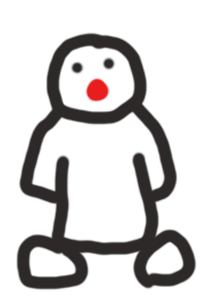
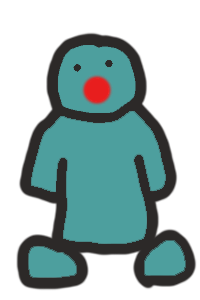
Implement basic fishing

diff --git a/game/players.js b/game/players.js
@@ -3,6 +3,7 @@
 let players = {
     // Textures
     player_texture: null,
+    player_fishing_texture: null,
     //////////////////////////////////////////////////
     players: [],
     id: null,
@@ -10,18 +11,20 @@ let players = {
     init: function() 
     {
         players.player_texture = graphics.loadImage("res/player.png");
+        players.player_fishing_texture = graphics.loadImage("res/player_fish.png");
 
         // Create our player ID
         players.id = Math.floor(Math.random() * 100000);
 
+        // Notify the server that the client has joined the game
         socket.send({
             "command": "create",
             "id": players.id
         });
     },
-    update: function()
+    update: function(map_click_handled)
     {
-        players.handleInput();
+        players.handleInput(map_click_handled);
         // Update player positions
         for (var player in players.players) {
             player = players.players[player];
@@ -56,7 +59,14 @@ let players = {
         for (var player in players.players) 
         {
             player = players.players[player];
-            graphics.drawImage(players.player_texture, player["x"] - 50, player["y"] - 150, 100, 150);
+            if (player["state"] == "fishing")
+            {
+                graphics.drawImage(players.player_fishing_texture, player["x"] - 50, player["y"] - 150, 100, 150);
+            }
+            else
+            {
+                graphics.drawImage(players.player_texture, player["x"] - 50, player["y"] - 150, 100, 150);
+            }
         }
     },
     createPlayer: function(data)
@@ -66,7 +76,8 @@ let players = {
             "x": data["x"],
             "y": data["y"],
             "target_x": data["x"],
-            "target_y": data["y"]
+            "target_y": data["y"],
+            "state": data["state"]
         });
     },
     movePlayer: function(data)
@@ -94,9 +105,9 @@ let players = {
             }
         }
     },
-    handleInput: function()
+    handleInput: function (map_click_handled)
     {
-        if (input.mouse.clicked) 
+        if (input.mouse.clicked && !map_click_handled) 
         {
             // Move here
             var command = {
@@ -107,5 +118,16 @@ let players = {
             };
             socket.send(JSON.stringify(command));
         }
+    },
+    getPlayer: function(id)
+    {
+        for (var player in players.players)
+        {
+            if (players.players[player]["id"] == id)
+            {
+                return players.players[player];
+            }
+        }
+        return null;
     }
 };

diff --git a/game/map.js b/game/map.js
@@ -3,17 +3,51 @@
 let map = {
     // Textures
     background_texture: null,
+    pond_texture: null,
+    pond_highlight_texture: null,
+    //////////////////////////////////////////////////
+    pond_hover: false,
     //////////////////////////////////////////////////
     init: function()
     {
         map.background_texture = graphics.loadImage("res/background.png");
+        map.pond_texture = graphics.loadImage("res/pond.png");
+        map.pond_highlight_texture = graphics.loadImage("res/pond_highlight.png")
     },
     update: function ()
     {
-        // Do nothing for now...
+        // Reset state
+        map.pond_hover = false;
+
+        // Check if mouse hovers over interactable
+        var x = input.mouse.x;
+        var y = input.mouse.y;
+        if (x > 100 && x < 400 && y > 100 && y < 300)
+        {
+            map.pond_hover = true;
+            // Mouse click on the interactable
+            if (input.mouse.clicked === true)
+            {
+                socket.send({
+                    "command": "interact",
+                    "id": players.id,
+                    "action": "fishing"
+                });
+                return true;
+            }
+        }
+        return false;
     },
     draw: function()
     {
         graphics.drawImage(map.background_texture, 0, 0, 640, 480);
+        if (map.pond_hover)
+        {
+            graphics.drawImage(map.pond_highlight_texture, 100, 100, 300, 200);
+        }
+        else
+        {
+            graphics.drawImage(map.pond_texture, 100, 100, 300, 200);
+        }
     }
 };

diff --git a/game/socket.js b/game/socket.js
@@ -74,5 +74,33 @@ let socket = {
         {
             players.removePlayer(message);
         }
+        if (message["command"] == "interact")
+        {
+            if (message["action"] == "fishing")
+            {
+                var player = players.getPlayer(message["id"]);
+                if (player !== null)
+                {
+                    player["state"] = "fishing";
+                }
+            }
+        }
+        if (message["command"] == "fish")
+        {
+            var player = players.getPlayer(message["id"])
+            if (player !== null)
+            {
+                player["state"] = "default";
+            }
+            // If this is us, show the fish
+            if (message["id"] == players.id)
+            {
+                ui.setFish(message["fish"]);
+            }
+        }
+        if (message["debug"])
+        {
+            logger.info(message["debug"]);
+        }
     }
 }

diff --git a/game/ui.js b/game/ui.js
@@ -1,0 +1,31 @@
+"use strict";
+
+// All of this code is temporary for fishing right now
+let ui = {
+    fish: "",
+    init: function() {
+        // Do nothing...
+    },
+    update: function(delta)
+    {
+        if (ui.fish.length > 0)
+        {
+            if (input.mouse.clicked)
+            {
+                logger.warning(ui.fish);
+                ui.fish = "";
+            }
+        }
+    },
+    draw: function()
+    {
+        if (ui.fish.length > 0)
+        {
+            graphics.text.drawText("You caught a " + ui.fish, defaultFont, 100, 200, 16);
+        }
+    },
+    setFish: function(fish)
+    {
+        ui.fish = fish;
+    }
+}

diff --git a/game/main.js b/game/main.js
@@ -7,6 +7,7 @@ let game = {
         map.init();
         socket.init();
         players.init();
+        ui.init();
     },
     close: function () {
         // Clean up any resources here...
@@ -22,13 +23,16 @@ let game = {
         if (input.keyPressed(83) || input.keyPressed(40)) {
             // DOWN
         }
-        players.update();
+        ui.update();
+        var map_click_handled = map.update();
+        players.update(map_click_handled);
         socket.update();
     },
     draw: function () {
         map.draw();
         players.draw();
 
+        ui.draw();
         graphics.text.drawText("VERSION 0-0-2");
     }
 }

diff --git a/game/index.html b/game/index.html
@@ -23,6 +23,7 @@
         <script type="text/javascript" src="socket.js"></script>
         <script type="text/javascript" src="players.js"></script>
         <script type="text/javascript" src="map.js"></script>
+        <script type="text/javascript" src="ui.js"></script>
         <script type="text/javascript" src="main.js"></script>
     </footer>
 

diff --git a/game/core/input.js b/game/core/input.js
@@ -60,6 +60,7 @@ input.keyPressed = function (key) {
 input.updateMousePos = function (evt) {
     let rect = canvas.getBoundingClientRect();
     input.mouse.x = (evt.clientX - rect.left) / (rect.right - rect.left) * canvas.width;
+    // Invert mouse y
     input.mouse.y = (evt.clientY - rect.top) / (rect.bottom - rect.top) * canvas.height;
 }
 

diff --git a/README.md b/README.md
@@ -7,3 +7,5 @@ This project is a club penguin clone but will be better in every aspect (I hope)
 Each subsystem will directly handle sending to the websocket, however the socket will handle the incoming commands and call the corresponding functions itself so there is no need to poll incoming commands or anything.
 
 On the server, commands should be batched so they can be sent in a single go. Commands on the client can be batched per frame as well, perhaps even longer time intervals depending on the action being used - can investigate in the future.
+
+On the server side, gameplay systems can use a 'key' system where they register their services into a dictionary. Then, interactables can use that key as a quick way to reference the systems.
